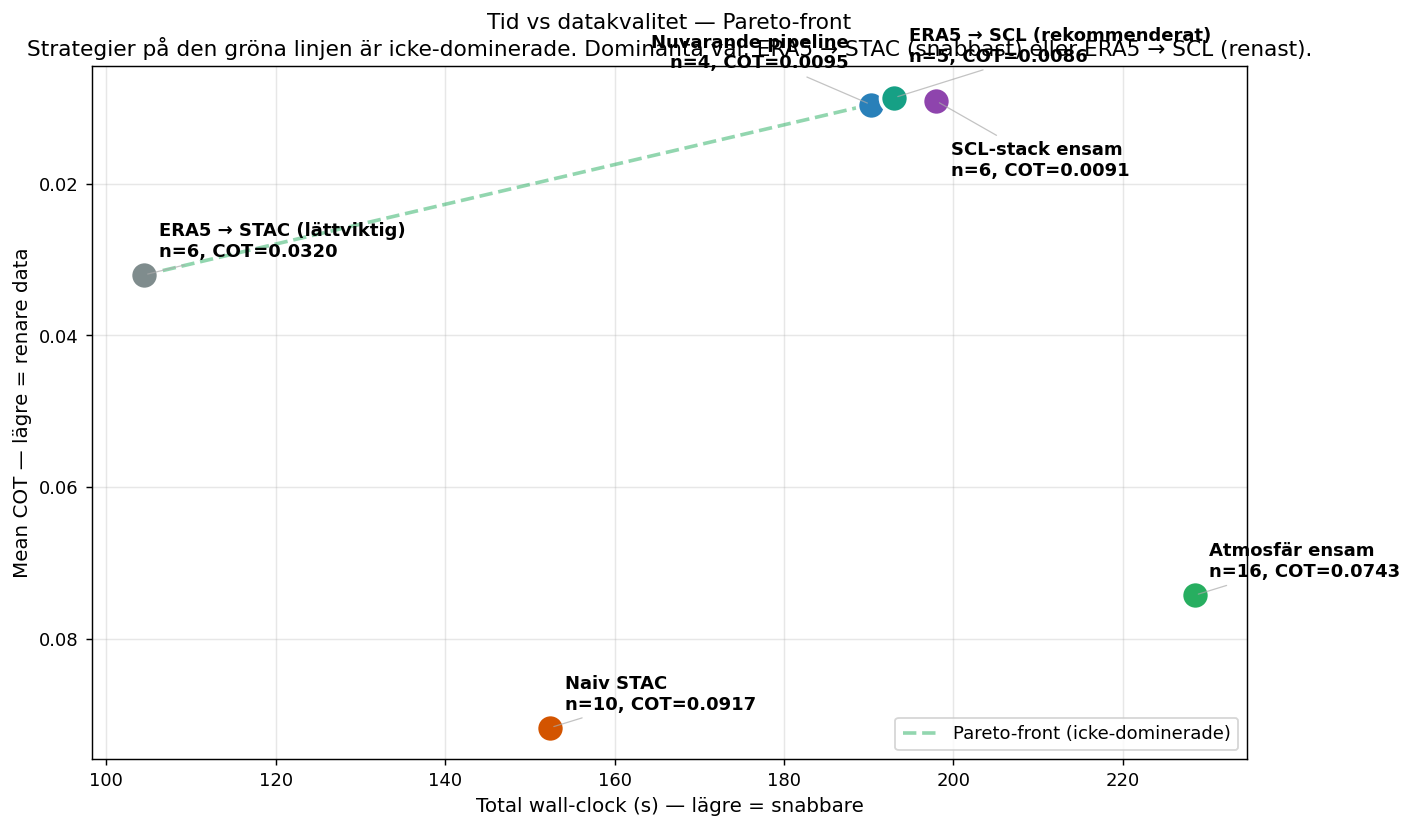
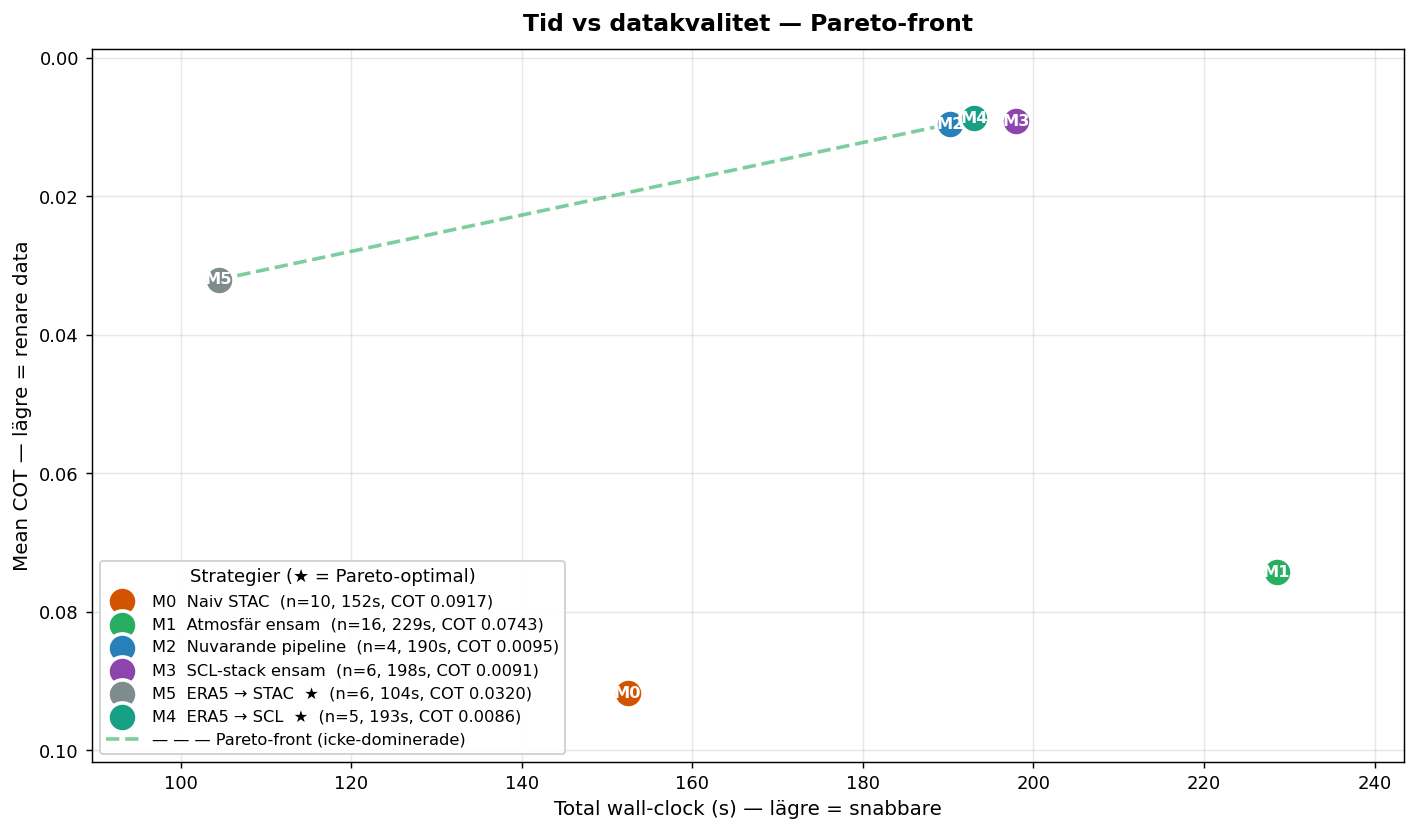
fix(showcase): clean up Pareto-front figure label collisions
The previous Pareto-front rendering had M2/M3/M4 labels colliding in
the upper cluster. Switch to numbered legend: each marker shows just
the strategy code (M0..M5) and full label/numbers move to a legend in
the lower-left corner. Pareto-front line now visible without label
overlap; all six strategies are clearly placed.

diff --git a/demos/era5_metafilter/render_strategy_figures.py b/demos/era5_metafilter/render_strategy_figures.py
@@ -111,17 +111,17 @@ def f2_cot(metrics: dict, out_path: Path) -> None:
 
 
 def f3_pareto(metrics: dict, out_path: Path) -> None:
+    """Pareto-front: time vs data quality. Uses a numbered legend instead of
+    inline labels to avoid the M2/M3/M4 cluster collision."""
     fig, ax = plt.subplots(figsize=(11, 6.5))
     keys = STRATEGY_ORDER
-
-    # Per-strategy label offset to avoid collisions on the M2/M3/M4 cluster
-    offsets = {
-        "M0_stac_only":      ( 8,   8),
-        "M1_atmosphere":     ( 8,   8),
-        "M2_stac_then_scl":  (-12,  18),
-        "M3_scl_only":       ( 8,  -22),
-        "M4_era5_then_scl":  ( 8,  18),
-        "M5_era5_then_stac": ( 8,   8),
+    short_labels = {
+        "M0_stac_only":      "M0  Naiv STAC",
+        "M1_atmosphere":     "M1  Atmosfär ensam",
+        "M2_stac_then_scl":  "M2  Nuvarande pipeline",
+        "M3_scl_only":       "M3  SCL-stack ensam",
+        "M4_era5_then_scl":  "M4  ERA5 → SCL  ★",
+        "M5_era5_then_stac": "M5  ERA5 → STAC  ★",
     }
 
     pts = []
@@ -132,44 +132,50 @@ def f3_pareto(metrics: dict, out_path: Path) -> None:
         if y is None:
             continue
         pts.append((x, y, k, s))
-        ax.scatter(x, y, s=240, color=STRATEGY_COLORS[k],
-                   edgecolor="white", linewidth=2, zorder=3)
-        dx, dy = offsets.get(k, (8, 8))
-        ha = "left" if dx >= 0 else "right"
-        va = "bottom" if dy >= 0 else "top"
+        marker_label = short_labels[k] + (
+            f"  (n={s['n_dates']}, {x:.0f}s, COT {y:.4f})"
+        )
+        ax.scatter(x, y, s=260, color=STRATEGY_COLORS[k],
+                   edgecolor="white", linewidth=2, zorder=3,
+                   label=marker_label)
         ax.annotate(
-            f"{s['label']}\nn={s['n_dates']}, COT={y:.4f}",
-            xy=(x, y), xytext=(dx, dy), textcoords="offset points",
-            fontsize=10, fontweight="bold", ha=ha, va=va,
-            arrowprops={"arrowstyle": "-", "color": "#aaa", "lw": 0.7,
-                        "alpha": 0.7},
+            k.split("_")[0],   # "M0", "M1", …
+            xy=(x, y), xytext=(0, 0), textcoords="offset points",
+            ha="center", va="center", fontsize=9, fontweight="bold",
+            color="white", zorder=4,
         )
 
-    # Trace the Pareto frontier (non-dominated points)
+    # Pareto frontier
     pts_sorted = sorted(pts, key=lambda p: p[0])
     frontier = []
     best_y = float("inf")
-    for x, y, k, s in pts_sorted:
+    for x, y, _, _ in pts_sorted:
         if y < best_y:
             frontier.append((x, y))
             best_y = y
     if len(frontier) >= 2:
         fx = [p[0] for p in frontier]
         fy = [p[1] for p in frontier]
-        ax.plot(fx, fy, ls="--", color="#27ae60", lw=2, alpha=0.5,
-                label="Pareto-front (icke-dominerade)")
-        ax.legend(loc="lower right")
+        ax.plot(fx, fy, ls="--", color="#27ae60", lw=2, alpha=0.6,
+                zorder=2, label="— — — Pareto-front (icke-dominerade)")
 
     ax.set_xlabel("Total wall-clock (s) — lägre = snabbare", fontsize=11)
     ax.set_ylabel("Mean COT — lägre = renare data", fontsize=11)
     ax.set_title(
-        "Tid vs datakvalitet — Pareto-front\n"
-        "Strategier på den gröna linjen är icke-dominerade. "
-        "Dominanta val: ERA5 → STAC (snabbast) eller ERA5 → SCL (renast).",
-        fontsize=12,
+        "Tid vs datakvalitet — Pareto-front",
+        fontsize=13, pad=10, fontweight="bold",
     )
-    ax.grid(alpha=0.3)
+    # Some breathing room around the cluster
+    xs = [p[0] for p in pts]
+    ys = [p[1] for p in pts]
+    x_pad = (max(xs) - min(xs)) * 0.12
+    y_pad = (max(ys) - min(ys)) * 0.12
+    ax.set_xlim(min(xs) - x_pad, max(xs) + x_pad)
+    ax.set_ylim(min(ys) - y_pad, max(ys) + y_pad)
     ax.invert_yaxis()
+    ax.grid(alpha=0.3)
+    ax.legend(loc="lower left", fontsize=9, framealpha=0.92,
+              title="Strategier (★ = Pareto-optimal)", title_fontsize=10)
     fig.tight_layout()
     fig.savefig(out_path, dpi=130, bbox_inches="tight")
     plt.close(fig)
